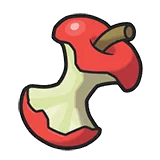
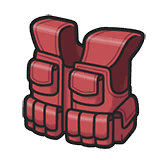
Personalità: nuove Pivot e Saboteur, Guardian con il Corpetto Assalto
Pivot (asse Switch) con Pulsantefuga, Saboteur (asse Tricks) con Luminpolvere. Strategist resta Setup + Field,
Guardian solo Guard. Colori delle targhette e test aggiornati.

Claude-Session: https://claude.ai/code/session_01G7sYikhG7HEY1A3mUCTzFw

diff --git a/docs/personalita.js b/docs/personalita.js
@@ -12,11 +12,11 @@
 //
 //   asse            conta (sul totale delle sue scelte)                   famiglia
 //   attacco         mosse che fanno danni                                  offensiva
-//   guardia         Protezione e simili + mosse che curano                 difensiva
-//   cambio          cambi di Pokémon scelti a inizio turno                 difensiva
+//   guardia         Protezione e simili + mosse che curano                 difensiva (Guardian)
+//   cambio          cambi di Pokémon scelti a inizio turno                 pivot
 //   potenziamento   Swords Dance, Calm Mind, Dragon Dance...               stratega
 //   campo           meteo, terreni, stanze, trappole, schermi, Tailwind    stratega
-//   trucchi         stati e trucchi sull'avversario + aiuto al compagno    stratega
+//   trucchi         stati e trucchi sull'avversario + aiuto al compagno    sabotatore
 //
 // Per ogni asse: scarto relativo = (quota sua - quota della lega) / quota della lega. Si divide per quanto gli allenatori si
 // distinguono tra loro su quell'asse (z), si tempera con la quantità di dati (pochi set: ci si fida meno) e si porta su una
@@ -45,13 +45,13 @@
           descrizione: 'Moves that deal damage.' },
         { id: 'guardia', nome: 'Guard', famiglia: 'difensiva', chiavi: ['protezione', 'recupero'], scalaBase: 0.45,
           descrizione: 'Protect and its relatives, plus healing moves.' },
-        { id: 'cambio', nome: 'Switch', famiglia: 'difensiva', chiavi: ['cambi'], scalaBase: 0.45,
+        { id: 'cambio', nome: 'Switch', famiglia: 'pivot', chiavi: ['cambi'], scalaBase: 0.45,
           descrizione: 'Switching a Pokémon out on purpose at the start of the turn.' },
         { id: 'potenziamento', nome: 'Setup', famiglia: 'stratega', chiavi: ['potenziamento'], scalaBase: 0.45,
           descrizione: 'Boosting stats before attacking (Swords Dance, Calm Mind, Dragon Dance...).' },
         { id: 'campo', nome: 'Field', famiglia: 'stratega', chiavi: ['campo'], scalaBase: 0.45,
           descrizione: 'Weather, terrain, Trick Room, Tailwind, hazards and screens.' },
-        { id: 'trucchi', nome: 'Tricks', famiglia: 'stratega', chiavi: ['disturbo', 'supporto'], scalaBase: 0.45,
+        { id: 'trucchi', nome: 'Tricks', famiglia: 'sabotatore', chiavi: ['disturbo', 'supporto'], scalaBase: 0.45,
           descrizione: 'Status conditions and tricks on the opponent, and helping a teammate.' }
     ];
 
@@ -59,9 +59,13 @@
         offensiva: { id: 'offensiva', nome: 'Aggressor', icona: '⚔', immagine: 'immagini/personalita-offensiva.png',
             descrizione: 'You take the fight to the opponent.' },
         difensiva: { id: 'difensiva', nome: 'Guardian', icona: '🛡', immagine: 'immagini/personalita-difensiva.png',
-            descrizione: 'You play it safe:  protect, healing and safe-switching.' },
+            descrizione: 'You play it safe: protect and healing keep your team standing.' },
+        pivot: { id: 'pivot', nome: 'Pivot', icona: '🔄', immagine: 'immagini/personalita-pivot.png',
+            descrizione: 'You keep the rhythm by switching: the right Pokémon in at the right moment.' },
         stratega: { id: 'stratega', nome: 'Strategist', icona: '♟', immagine: 'immagini/personalita-stratega.png',
-            descrizione: 'You win with plans: setup, field control, support and tricks.' },
+            descrizione: 'You win with plans: setup and control of the field.' },
+        sabotatore: { id: 'sabotatore', nome: 'Saboteur', icona: '☠', immagine: 'immagini/personalita-sabotatore.png',
+            descrizione: 'You wear the opponent down with status, tricks and support.' },
         equilibrata: { id: 'equilibrata', nome: 'All-rounder', icona: '⚖', immagine: 'immagini/personalita-equilibrata.png',
             descrizione: 'You calibrate every match adapting to your opponent.' }
     };
@@ -140,7 +144,7 @@
         });
 
         const famiglie = {};
-        for (const f of ['offensiva', 'difensiva', 'stratega']) {
+        for (const f of ['offensiva', 'difensiva', 'pivot', 'stratega', 'sabotatore']) {
             famiglie[f] = arrotonda(mediaSemplice(assi.filter(a => a.famiglia === f).map(a => a.z)), 2);
         }
         const migliore = Object.entries(famiglie).sort((a, b) => b[1] - a[1])[0];

diff --git a/test/personalita.test.js b/test/personalita.test.js
@@ -3,7 +3,7 @@
 //   - si sblocca dopo 25 set con dati sulle scelte, e quando almeno 3 allenatori hanno dati da confrontare;
 //   - tutti attaccano più di quanto si proteggano: un allenatore nella media di tutti gli assi vale 50 ovunque;
 //   - chi usa Protezione un po' più della media è "difensivo" anche se attacca sempre più di quanto si protegga;
-//   - le famiglie: offensiva (attacco), difensiva (guardia, cambio), stratega (potenziamento, campo, trucchi).
+//   - le famiglie: offensiva (attacco), difensiva (guardia), pivot (cambio), stratega (potenziamento, campo), sabotatore (trucchi).
 //
 //   npm test        (dalla cartella principale)
 const test = require('node:test');
@@ -61,17 +61,29 @@ test('un po\' più di Protezione della media: più difensivo, pur attaccando sem
     assert.ok(r.famiglie.difensiva > r.famiglie.offensiva);
 });
 
-test('chi attacca più della media è offensivo, chi gioca di campo e trucchi è stratega', () => {
+test('chi attacca più della media è offensivo, chi gioca di potenziamenti e di campo è stratega', () => {
     const aggressivo = allenatore('g', 40, { attacco: 0.82, protezione: 0.05, recupero: 0.01, cambi: 0.03, potenziamento: 0.02, campo: 0.01, supporto: 0.01, disturbo: 0.01 });
     const r = P.calcola(lega(aggressivo), 'g');
     assert.equal(r.tipo.id, 'offensiva');
     assert.ok(r.assi.find(a => a.id === 'attacco').valore > 60);
     assert.ok(r.assi.find(a => a.id === 'guardia').valore < 40);
 
-    const stratega = allenatore('s', 40, { attacco: 0.5, potenziamento: 0.1, campo: 0.1, supporto: 0.06, disturbo: 0.1 });
+    const stratega = allenatore('s', 40, { attacco: 0.5, potenziamento: 0.12, campo: 0.12 });
     const s = P.calcola(lega(stratega), 's');
     assert.equal(s.tipo.id, 'stratega');
-    for (const id of ['potenziamento', 'campo', 'trucchi']) assert.ok(s.assi.find(a => a.id === id).valore > 60, id);
+    for (const id of ['potenziamento', 'campo']) assert.ok(s.assi.find(a => a.id === id).valore > 60, id);
+});
+
+test('chi cambia molto è pivot, chi riempie l\'avversario di stati e trucchi è sabotatore', () => {
+    const pivot = allenatore('p', 40, { attacco: 0.55, cambi: 0.2 });
+    const p = P.calcola(lega(pivot), 'p');
+    assert.equal(p.tipo.id, 'pivot');
+    assert.ok(p.assi.find(a => a.id === 'cambio').valore > 60);
+
+    const sabotatore = allenatore('s', 40, { attacco: 0.5, disturbo: 0.18, supporto: 0.08 });
+    const s = P.calcola(lega(sabotatore), 's');
+    assert.equal(s.tipo.id, 'sabotatore');
+    assert.ok(s.assi.find(a => a.id === 'trucchi').valore > 60);
 });
 
 test('i set che mancano rendono il giudizio più prudente: con pochi dati si resta più vicini a 50', () => {
@@ -112,10 +124,10 @@ test('i valori restano nella scala 0-100 anche per allenatori estremi, e il risu
     assert.match(r.frasi[0], /of your choices against .*% for the league \(/);
 });
 
-test('cambi e protezioni ripetute: i sei assi e le tre famiglie del progetto', () => {
+test('cambi e protezioni ripetute: i sei assi e le cinque famiglie del progetto', () => {
     assert.deepEqual(P.ASSI.map(a => a.id), ['attacco', 'guardia', 'cambio', 'potenziamento', 'campo', 'trucchi']);
-    assert.deepEqual([...new Set(P.ASSI.map(a => a.famiglia))], ['offensiva', 'difensiva', 'stratega']);
-    assert.deepEqual(Object.keys(P.FAMIGLIE).sort(), ['difensiva', 'equilibrata', 'offensiva', 'stratega']);
+    assert.deepEqual([...new Set(P.ASSI.map(a => a.famiglia))], ['offensiva', 'difensiva', 'pivot', 'stratega', 'sabotatore']);
+    assert.deepEqual(Object.keys(P.FAMIGLIE).sort(), ['difensiva', 'equilibrata', 'offensiva', 'pivot', 'sabotatore', 'stratega']);
 });
 
 test('vertici del diagramma: il primo asse in alto, gli altri in senso orario, il raggio è proporzionale al valore', () => {

diff --git a/docs/style-public-card.css b/docs/style-public-card.css
@@ -611,6 +611,8 @@ body.pp-modifica :is(.pp-blocco, .pp-testata, .pp-piede)::after { display: none;
 /* la targhetta della personalità: come il titolo, nel colore della sua famiglia */
 .hub-title-badge.famiglia-offensiva { background-color: #de3a1d !important; border: 2px solid #751200; box-shadow: 4px 4px 0 #751200; }
 .hub-title-badge.famiglia-difensiva { background-color: #3399ff !important; border: 2px solid #004d9b; box-shadow: 4px 4px 0 #004d9b; }
+.hub-title-badge.famiglia-pivot { background-color: #ff9a2e !important; border: 2px solid #8a4700; box-shadow: 4px 4px 0 #8a4700; }
+.hub-title-badge.famiglia-sabotatore { background-color: #c0449f !important; border: 2px solid #5c0d4d; box-shadow: 4px 4px 0 #5c0d4d; }
 .hub-title-badge.famiglia-stratega { background-color: #7766ee !important; border: 2px solid #1a0d70; box-shadow: 4px 4px 0 #1a0d70; }
 .hub-title-badge.famiglia-equilibrata { background-color: #77cc55 !important; border: 2px solid #247f00; box-shadow: 4px 4px 0 #247f00; }
 
